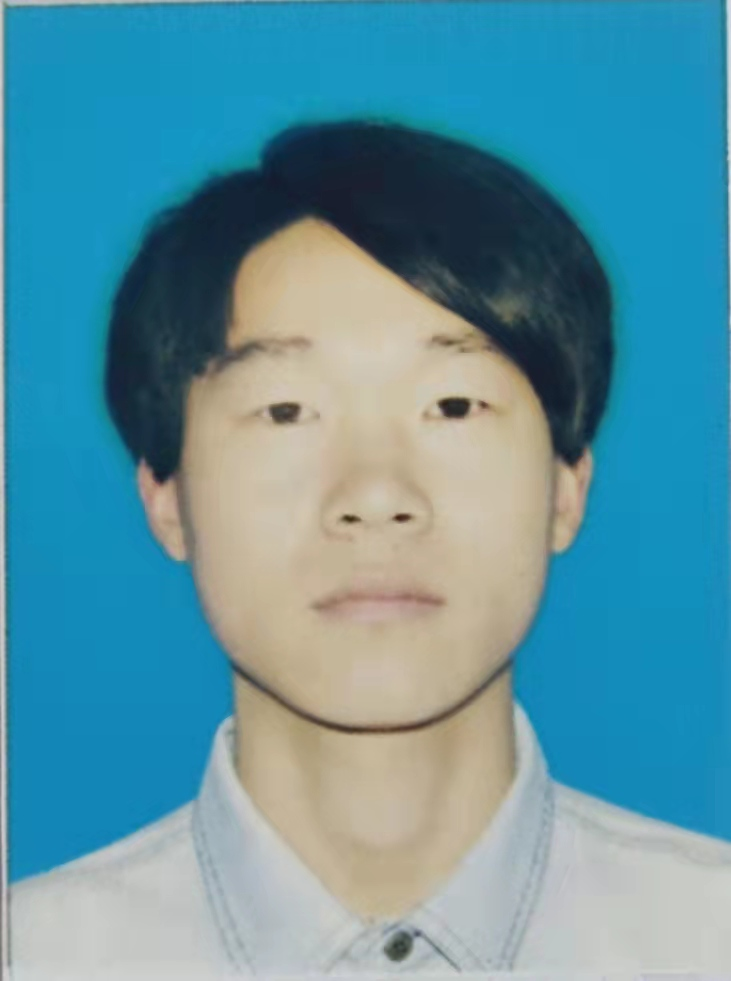
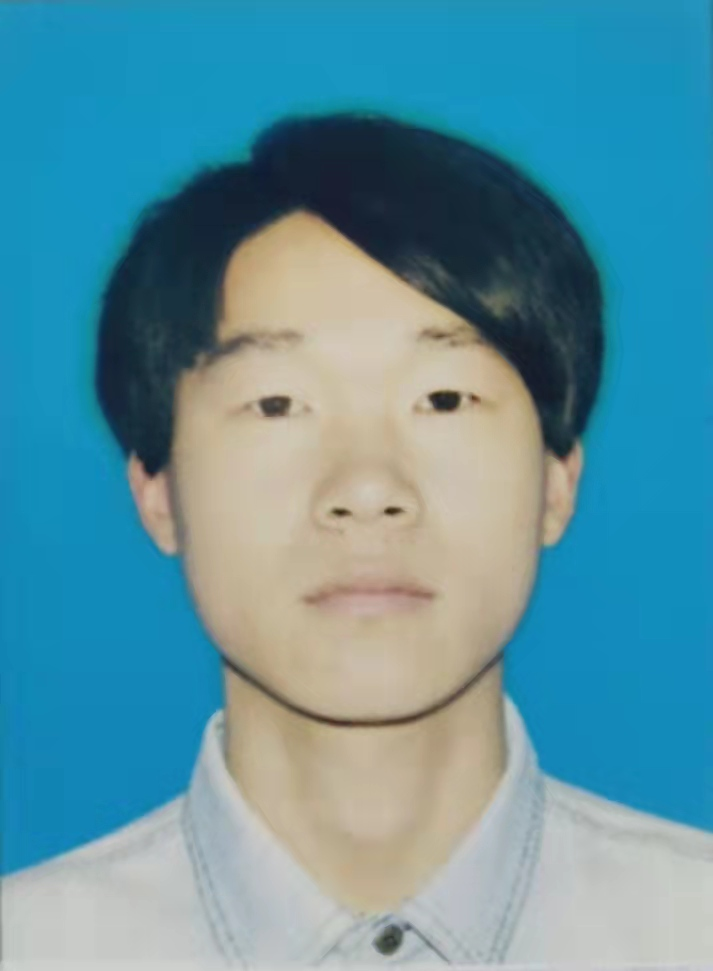
feat:更新

diff --git a/全球通聊天软件/src/pages/education/index.tsx b/全球通聊天软件/src/pages/education/index.tsx
@@ -1,23 +1,21 @@
 import './index.scss';
 
-import { Divider, WaterMark } from 'antd-mobile';
-import React, { useState, useRef } from 'react';
+import { WaterMark } from 'antd-mobile';
+import React, { useState } from 'react';
 import { useHistory } from 'react-router-dom';
 
 const Education = () => {
   const history = useHistory();
-  const fs: any = useRef(null);
   const [name, setNames] = useState<any>(true);
 
   const switchs = (key: any) => {
-    // history.goBack();
     if (key === 1) {
       setNames(true);
     } else {
       setNames(false);
     }
   };
-  const goBack = (key: any) => {
+  const goBack = () => {
     history.goBack();
   };
   const list = [
@@ -83,7 +81,12 @@ const Education = () => {
         本科-河北农业大学-计算机科学与技术
       </div>
       <div className="headPortrait1">
-        <img className="imge1" src={'./head1.jpg'} alt="" id="img" />
+        <img
+          className="imge1"
+          src={`${name ? './head1.jpg' : './head2.jpg'}`}
+          alt=""
+          id="img"
+        />
       </div>
       {name && (
         <div className="headPortrait2">

diff --git a/全球通聊天软件/src/pages/education/index.scss b/全球通聊天软件/src/pages/education/index.scss
@@ -57,6 +57,12 @@
     left: 279px;
     background: rgb(101, 205, 170);
   }
+  .headPortrait1,
+  .headPortrait2 {
+    img {
+      width: 100%;
+    }
+  }
   .information,
   .information1,
   .information2 {
